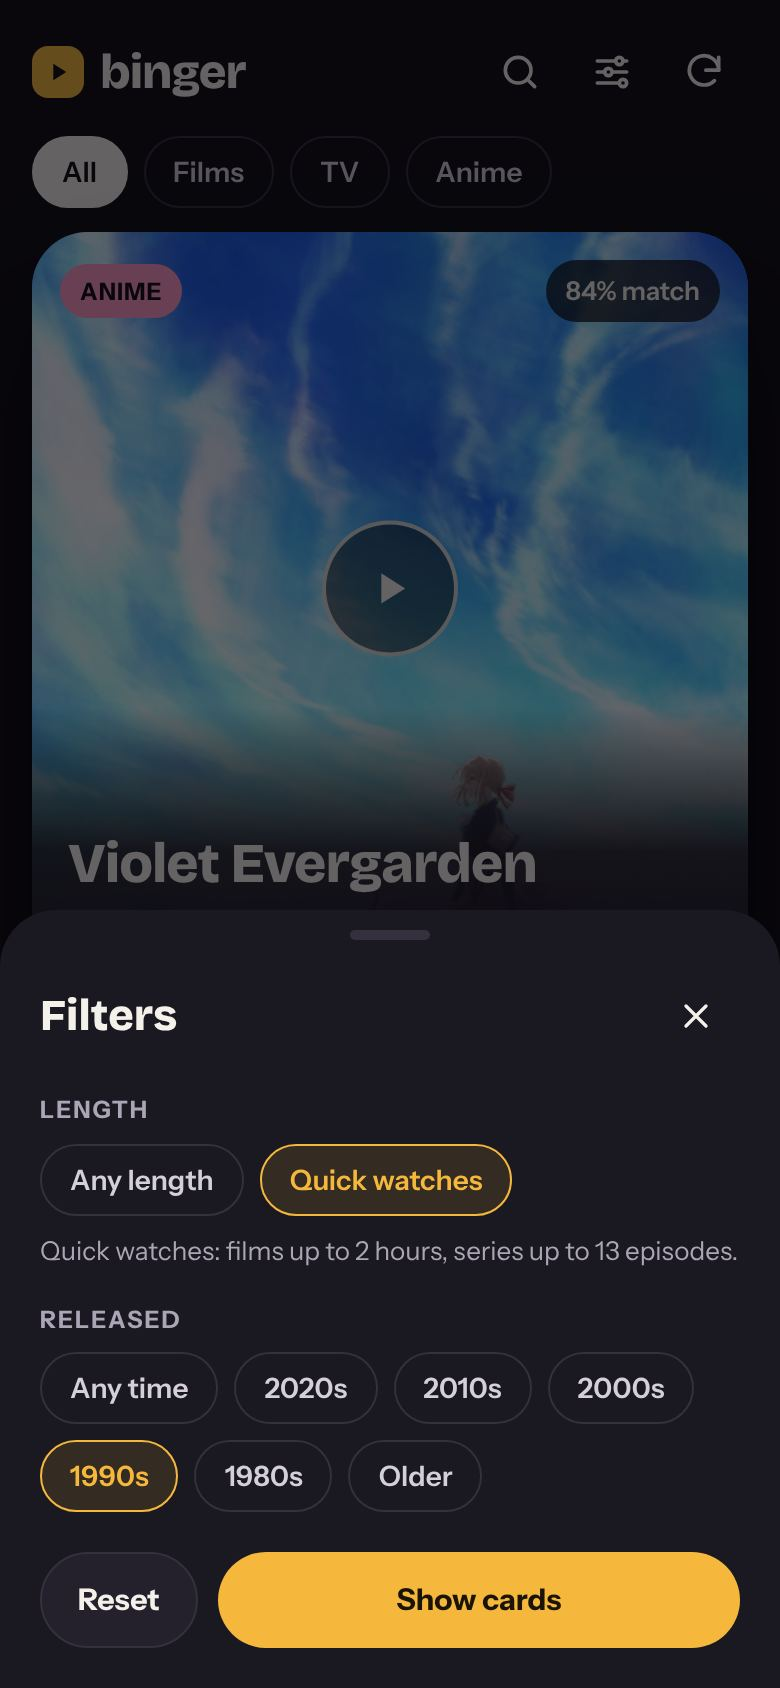
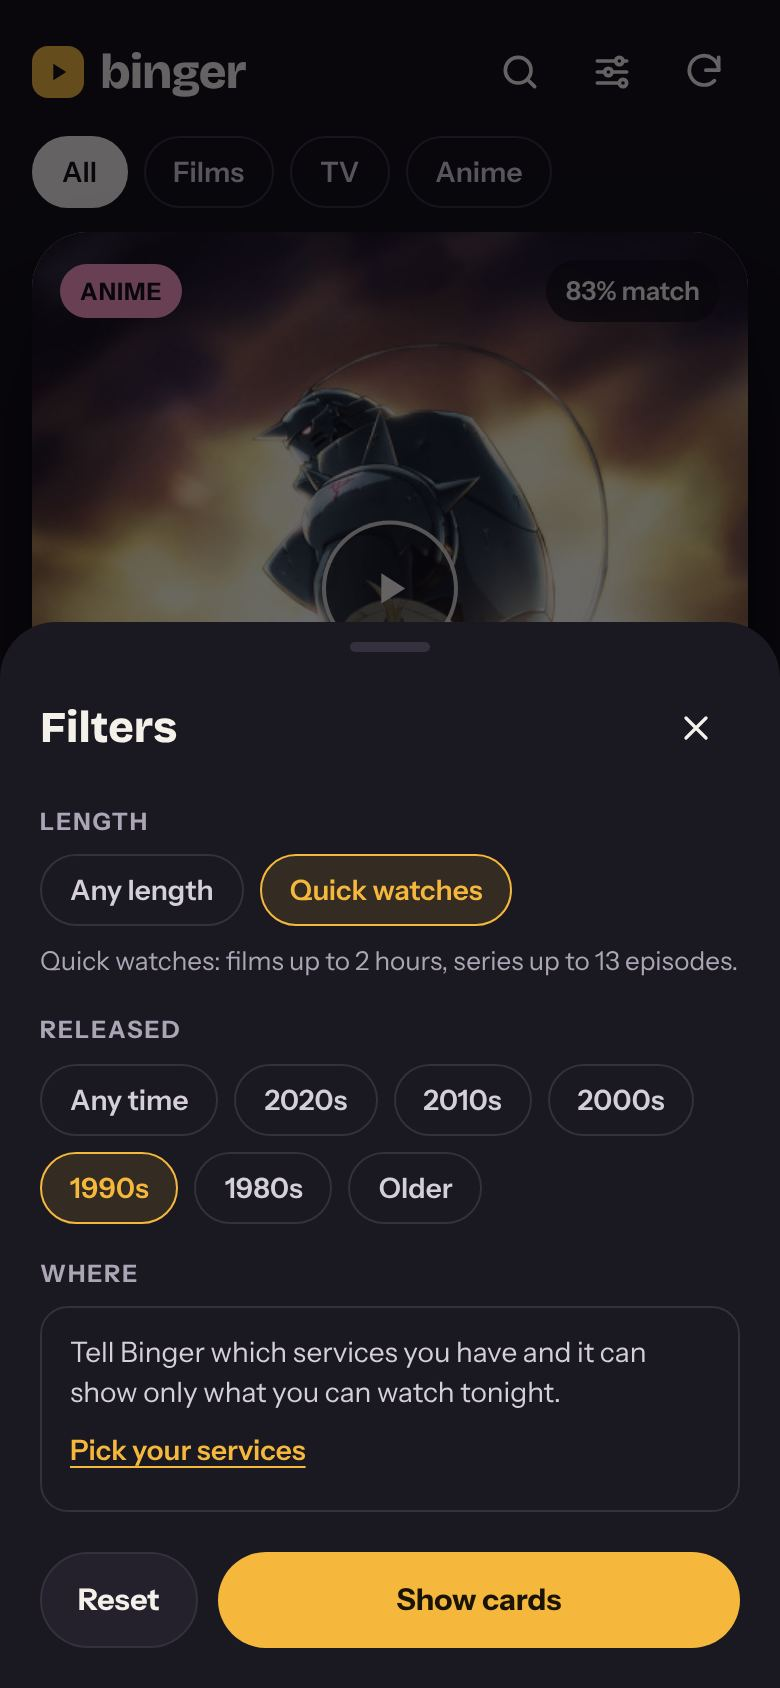
Build Phase 2 step 1: your streaming services
The picker from artboard 8 (js/ui/services.js): a tile per service in your
region (from TMDB, common ones shown at once and without a key), the
"Only show what I can stream" switch, saved on Done. Opened from Settings,
Taste and the Filters sheet. Picking none turns "only" off so the deck
can't empty. The detail sheet rings your services under "Where to watch"
and lists AniList's streaming links for anime.

Fixed while building:
- TMDB's region provider list offered services only available in other
  countries; they're now left out.
- A TMDB response with no id became a "tmdb:movie:undefined" title; it's
  now refused and the card keeps its list data.

The e2e TMDB mock now answers provider searches and details as TMDB does.
91 unit tests, 40/40 e2e. Plan, design map and docs updated.

Claude-Session: https://claude.ai/code/session_01KjzfXahiumpTDAP73xNRSR

diff --git a/js/ui/services.js b/js/ui/services.js
@@ -1,0 +1,81 @@
+// "Your services": pick the streaming services you pay for, and whether the
+// deck should show only what's on them. Design: docs/design/canvas/Services.dc.html.
+// Changes apply on Done; closing the sheet any other way leaves things as they were.
+
+import { h, append, clear, icon, safeImg } from './dom.js';
+import { openSheet, closeButton } from './sheet.js';
+import { toggle } from './taste.js';
+import { COMMON_SERVICES } from '../sources/services.js';
+
+export function onlyHint(on) {
+  return on ? 'Everything else is hidden from your deck' : 'Off: your services are lifted, nothing is hidden';
+}
+
+// Starting tiles before TMDB answers: the common services, plus anything
+// already picked (so a pick never vanishes from the grid).
+export function initialChoices(picked) {
+  const out = COMMON_SERVICES.map((service) => ({ service, logo: null }));
+  for (const service of picked) if (!out.some((x) => x.service === service)) out.push({ service, logo: null });
+  return out;
+}
+
+export function openServices(ctx) {
+  const sheet = openSheet({ label: 'Your services', variant: 'full', className: 'services' });
+  const picked = new Set(ctx.picked || []);
+  let streamOnly = !!ctx.streamOnly;
+
+  const grid = h('div', { class: 'service-grid', role: 'group', 'aria-label': 'Streaming services' });
+  function tile({ service, logo }) {
+    const mono = h('span', { class: 'service-mono', 'aria-hidden': 'true' });
+    const initial = () => mono.append(service.replace(/[^A-Za-z0-9]/g, '').slice(0, 1) || '?');
+    if (logo) mono.append(safeImg(logo, { loading: 'lazy' }, initial)); else initial();
+    const b = h('button', { type: 'button', class: 'service-tile', 'aria-pressed': String(picked.has(service)) },
+      mono,
+      h('span', { class: 'service-name' }, service),
+      h('span', { class: 'service-check', 'aria-hidden': 'true' }, icon('check', 13)));
+    b.addEventListener('click', () => {
+      if (picked.has(service)) picked.delete(service); else picked.add(service);
+      b.setAttribute('aria-pressed', String(picked.has(service)));
+    });
+    return b;
+  }
+  const paint = (choices) => { clear(grid); choices.forEach((c) => grid.append(tile(c))); };
+  paint(initialChoices([...picked]));
+  if (ctx.loadChoices) {
+    ctx.loadChoices([...picked]).then((choices) => {
+      if (sheet.el.isConnected && choices && choices.length) paint(choices);
+    }).catch(() => { /* keep the common list */ });
+  }
+
+  const only = toggle('Only show what I can stream', onlyHint(streamOnly), streamOnly, (v) => {
+    streamOnly = v;
+    only.querySelector('.small').textContent = onlyHint(v);
+  });
+
+  const done = h('button', { type: 'button', class: 'btn btn-primary grow' }, 'Done');
+  done.addEventListener('click', () => {
+    ctx.onDone({ services: [...picked], streamOnly });
+    sheet.close();
+  });
+
+  append(sheet.body, [
+    h('div', { class: 'sheet-head' }, h('h1', { class: 'page-title' }, 'Your services'), closeButton(sheet)),
+    h('div', { class: 'page-scroll services-body' },
+      h('p', { class: 'lede' }, 'Pick what you pay for. Binger lifts titles on these, and can hide everything else.'),
+      grid,
+      h('div', { class: 'panel' }, only),
+      h('p', { class: 'small muted' },
+        `Films and TV: what's included with a subscription in ${ctx.regionName || 'your region'}, from JustWatch via TMDB. `
+        + 'Rent and buy don’t count. Anime: AniList’s official streaming links, which aren’t per country.'),
+      ctx.hasKey ? null : h('p', { class: 'small muted' }, 'Add a TMDB key in Settings to see every service in your region, with logos.')),
+    h('div', { class: 'sheet-footer' }, done)]);
+  sheet.focusFirst();
+  return sheet;
+}
+
+// "Netflix, BBC iPlayer and 2 more" / "None picked yet".
+export function servicesSummary(services) {
+  if (!services || !services.length) return 'None picked yet';
+  const more = services.length > 2 ? ` and ${services.length - 2} more` : '';
+  return services.slice(0, 2).join(', ') + more;
+}

diff --git a/js/ui/detail.js b/js/ui/detail.js
@@ -5,6 +5,7 @@ import { h, icon, clear, KIND_NAME, metaLine, publicScore, avatar, starsText, sh
 import { openSheet } from './sheet.js';
 import { trailerPlayer, fullTrailerUrl } from './trailer.js';
 import { knownFrom } from './card.js';
+import { canonicalService } from '../sources/services.js';
 
 export function openDetail(initial, ctx) {
   const sheet = openSheet({ label: initial.title, variant: 'full', className: 'detail' });
@@ -99,9 +100,16 @@ function body(t, ctx) {
 }
 
 function whereToWatch(t, ctx) {
+  const mine = ctx.settings.services || [];
   if (t.source === 'anilist') {
+    const links = t.watchLinks || [];
     return h('section', { class: 'where' }, h('h2', { class: 'eyebrow' }, 'Where to watch'),
-      h('p', { class: 'small muted' }, 'AniList lists official streaming links on its page for this show.'));
+      links.length
+        ? h('ul', { class: 'providers' }, links.map((l) => h('li', null,
+          h('a', { class: `provider provider-link${mine.includes(l.name) ? ' provider-yours' : ''}`, href: l.url, target: '_blank', rel: 'noopener' },
+            h('span', null, l.name), mine.includes(l.name) ? h('span', { class: 'sr-only' }, ' (one of your services)') : null))))
+        : h('p', { class: 'small muted' }, 'No official streaming links listed on AniList yet.'),
+      links.length ? h('p', { class: 'small muted' }, 'Official links from AniList. They aren\u2019t per country, so check yours carries it.') : null);
   }
   if (!t.detailed) return null;
   const region = ctx.settings.region;
@@ -112,8 +120,12 @@ function whereToWatch(t, ctx) {
     rows.length
       ? h('div', { class: 'provider-rows' }, rows.map(([label, list]) => h('div', { class: 'provider-row' },
         h('span', { class: 'provider-label' }, label),
-        h('ul', { class: 'providers' }, list.slice(0, 6).map((x) => h('li', { class: 'provider', title: x.name },
-          x.logo ? h('img', { src: x.logo, alt: '', loading: 'lazy' }) : null, h('span', null, x.name)))))))
+        h('ul', { class: 'providers' }, list.slice(0, 6).map((x) => {
+          const yours = label !== 'Rent' && label !== 'Buy' && mine.includes(canonicalService(x.name));
+          return h('li', { class: `provider${yours ? ' provider-yours' : ''}`, title: x.name },
+            x.logo ? h('img', { src: x.logo, alt: '', loading: 'lazy' }) : null, h('span', null, x.name),
+            yours ? h('span', { class: 'sr-only' }, ' (one of your services)') : null);
+        })))))
       : h('p', { class: 'small muted' }, `Not streaming in ${region} right now, as far as TMDB knows.`),
     rows.length && p.link ? h('p', { class: 'small muted' }, 'Availability data from ', h('a', { href: p.link, target: '_blank', rel: 'noopener' }, 'JustWatch via TMDB'), '.') : null);
 }

diff --git a/js/app.js b/js/app.js
@@ -20,6 +20,9 @@ import { openSearch } from './ui/search.js';
 import { openSettings } from './ui/settings.js';
 import { openOnboarding } from './ui/onboarding.js';
 import { openFilters } from './ui/filters.js';
+import { openServices, servicesSummary } from './ui/services.js';
+import { regionName } from './ui/settings.js';
+import { serviceChoices } from './sources/lookups.js';
 import { toast, anySheetOpen } from './ui/sheet.js';
 
 // ---- state -----------------------------------------------------------------
@@ -252,8 +255,27 @@ function showFilters() {
     filters: deck.filters,
     streamOnly: s.streamOnly,
     services: s.services,
-    onPickServices: null, // the services picker is the next screen to build (docs/PLAN.md)
+    onPickServices: () => showServices(),
     onApply: applyDeckFilters,
+  });
+}
+
+// "Your services". Saved on Done; the store subscriber clears the pool and
+// refills when the services or "only what I can stream" change.
+function showServices(after = null) {
+  const s = store.get().settings;
+  openServices({
+    picked: s.services,
+    streamOnly: s.streamOnly,
+    hasKey: tmdb.hasKey,
+    regionName: regionName(s.region),
+    loadChoices: (picked) => serviceChoices({ tmdb, picked }),
+    onDone: ({ services, streamOnly }) => {
+      // "Only what I can stream" with nothing picked would empty the deck.
+      store.update(L.updateSettings, { services, streamOnly: services.length ? streamOnly : false });
+      toast(services.length ? `Your services: ${servicesSummary(services)}` : 'No services picked');
+      if (after) after();
+    },
   });
 }
 
@@ -334,6 +356,7 @@ function showSettings() {
     getState: store.get,
     keySource: () => (store.get().settings.tmdbKey ? 'Using your key.' : CONFIG.tmdbKey ? 'Using the key built into this deployment.' : 'No key yet: films and TV are off.'),
     saveKey,
+    onServices: showServices,
     updateSettings: (patch) => store.update(L.updateSettings, patch),
     exportBackup: () => {
       const blob = new Blob([L.exportState(store.get())], { type: 'application/json' });
@@ -440,6 +463,7 @@ function render() {
       getState: store.get,
       updateSettings: (patch) => store.update(L.updateSettings, patch),
       onSettings: showSettings,
+      onServices: () => showServices(),
       onForgetPasses: () => { store.update(L.forgetPasses); toast('Passed titles can come back now'); refill({ force: true }); },
     });
   }

diff --git a/js/ui/settings.js b/js/ui/settings.js
@@ -4,12 +4,18 @@
 import { h, icon } from './dom.js';
 import { openSheet, closeButton, confirmSheet, choiceSheet, toast } from './sheet.js';
 import { toggle } from './taste.js';
+import { servicesSummary } from './services.js';
 
 const REGIONS = [
   ['GB', 'United Kingdom'], ['IE', 'Ireland'], ['US', 'United States'], ['CA', 'Canada'], ['AU', 'Australia'],
   ['NZ', 'New Zealand'], ['DE', 'Germany'], ['FR', 'France'], ['ES', 'Spain'], ['IT', 'Italy'], ['NL', 'Netherlands'],
   ['SE', 'Sweden'], ['NO', 'Norway'], ['DK', 'Denmark'], ['JP', 'Japan'], ['IN', 'India'], ['BR', 'Brazil'], ['MX', 'Mexico'],
 ];
+
+export function regionName(code) {
+  const hit = REGIONS.find(([c]) => c === code);
+  return hit ? hit[1] : code;
+}
 
 export function openSettings(ctx) {
   const sheet = openSheet({ label: 'Settings', variant: 'full', className: 'settings' });
@@ -29,6 +35,12 @@ export function openSettings(ctx) {
     keyStatus.classList.toggle('error', !result.ok);
     testBtn.disabled = false;
   });
+
+  // --- your services ---
+  const servicesLine = h('span', { class: 'small muted' }, servicesSummary(s.services));
+  const servicesBtn = h('button', { type: 'button', class: 'row-btn', onClick: () => ctx.onServices(() => {
+    servicesLine.textContent = servicesSummary(ctx.getState().settings.services);
+  }) }, h('span', { class: 'switch-text' }, h('span', { class: 'switch-label' }, 'Your streaming services'), servicesLine), icon('forward', 18));
 
   // --- region & playback ---
   const region = h('select', { id: 'region' }, REGIONS.map(([code, name]) => h('option', { value: code, selected: s.region === code }, name)));
@@ -70,7 +82,8 @@ export function openSettings(ctx) {
         h('div', { class: 'row-gap' }, testBtn, h('a', { href: 'https://www.themoviedb.org/settings/api', target: '_blank', rel: 'noopener', class: 'small' }, 'Get a key', icon('external', 14))),
         keyStatus),
       group('Where you watch',
-        field('Region (for streaming info and certificates)', 'region', region)),
+        field('Region (for streaming info and certificates)', 'region', region),
+        servicesBtn),
       group('Trailers',
         toggle('Autoplay trailer in details', 'Muted; tap the video for sound', s.autoplayTrailers, (v) => ctx.updateSettings({ autoplayTrailers: v })),
         field('Clip length', 'clip', clip)),

diff --git a/css/app.css b/css/app.css
@@ -382,3 +382,25 @@ input[type="range"] { accent-color: var(--accent); }
 @media (min-width: 700px) {
   .app { border-left: 1px solid var(--surface-2); border-right: 1px solid var(--surface-2); }
 }
+
+/* streaming services (Phase 2 step 1; design: Services.dc.html) */
+.services-body { display: flex; flex-direction: column; gap: 16px; padding-top: 4px; }
+.service-grid { display: grid; grid-template-columns: repeat(3, minmax(0, 1fr)); gap: 10px; }
+.service-tile {
+  position: relative; min-height: 96px; padding: 12px 6px 10px; border-radius: 16px;
+  display: flex; flex-direction: column; align-items: center; justify-content: center; gap: 8px;
+  background: var(--surface); border: 1px solid var(--line); color: var(--text);
+}
+.service-tile[aria-pressed="true"] { background: rgba(245, 184, 61, 0.10); border-color: var(--accent); }
+.service-mono {
+  width: 36px; height: 36px; border-radius: 10px; overflow: hidden; display: flex; align-items: center; justify-content: center;
+  font-family: var(--font-display); font-weight: 800; font-size: 17px; background: var(--line); color: var(--text);
+}
+.service-mono img { width: 100%; height: 100%; object-fit: cover; }
+.service-name { font-size: 13px; font-weight: 600; line-height: 1.2; text-align: center; }
+.service-check { position: absolute; top: 6px; right: 6px; width: 22px; height: 22px; border-radius: 11px; background: var(--accent); color: var(--on-accent); display: none; align-items: center; justify-content: center; }
+.service-tile[aria-pressed="true"] .service-check { display: flex; }
+.row-btn { width: 100%; min-height: 52px; display: flex; align-items: center; justify-content: space-between; gap: 12px; border: 0; background: transparent; color: var(--text); padding: 4px 0; text-align: left; }
+.row-btn > svg { flex: none; color: var(--muted); }
+.provider-yours { border-color: var(--accent); box-shadow: 0 0 0 1px var(--accent); }
+.provider-link { color: var(--text); text-decoration: none; padding: 8px 12px; }

diff --git a/js/ui/taste.js b/js/ui/taste.js
@@ -4,6 +4,7 @@
 
 import { h, icon, clear, KIND_NAME, titleCase } from './dom.js';
 import { topFeatures } from '../engine/index.js';
+import { servicesSummary } from './services.js';
 
 const ALL_GENRES = [
   'Action', 'Adventure', 'Comedy', 'Crime', 'Documentary', 'Drama', 'Family', 'Fantasy', 'History', 'Horror',
@@ -72,6 +73,13 @@ export function renderTaste(root, ctx) {
     h('h2', { class: 'eyebrow' }, 'Steer the deck'),
     sliders,
     !ctx.hasKey ? h('p', { class: 'small muted' }, 'Films and TV need a TMDB key (Settings). Until then the deck is all anime.') : null,
+    h('button', { type: 'button', class: 'row-btn', onClick: ctx.onServices },
+      h('span', { class: 'switch-text' },
+        h('span', { class: 'switch-label' }, 'Your streaming services'),
+        h('span', { class: 'small muted' }, s.services && s.services.length
+          ? `${servicesSummary(s.services)}${s.streamOnly ? ' · only these' : ''}`
+          : 'Pick yours to lift what you can watch tonight')),
+      icon('forward', 18)),
     toggle('Favour new releases', 'Lift films, shows and seasons from the last few months', s.preferFresh, (v) => ctx.updateSettings({ preferFresh: v })),
     toggle('Surprise me sometimes', 'About 1 card in 7 is a well-rated title outside your usual taste', s.surprise, (v) => ctx.updateSettings({ surprise: v }))));
 

diff --git a/js/sources/tmdb.js b/js/sources/tmdb.js
@@ -30,7 +30,7 @@ export function isAnimeLike(r) {
 }
 
 export function fromTmdbList(r, mediaType = r.media_type) {
-  if (!r || (mediaType !== 'movie' && mediaType !== 'tv') || r.adult) return null;
+  if (!r || r.id == null || (mediaType !== 'movie' && mediaType !== 'tv') || r.adult) return null;
   const date = (mediaType === 'movie' ? r.release_date : r.first_air_date) || null;
   return {
     id: `tmdb:${mediaType}:${r.id}`,
@@ -146,7 +146,9 @@ export function collectionName(name) {
 // several times: "Netflix", "Netflix Standard with Ads"...), most common first.
 export function fromTmdbProviders(json, region = 'GB') {
   const rank = (p) => (p.display_priorities && p.display_priorities[region]) ?? p.display_priority ?? 999;
-  const list = ((json && json.results) || []).filter((p) => p && p.provider_id && p.provider_name).sort((a, b) => rank(a) - rank(b));
+  // A service that lists the countries it's in, without yours, isn't offered.
+  const here = (p) => !p.display_priorities || p.display_priorities[region] != null;
+  const list = ((json && json.results) || []).filter((p) => p && p.provider_id && p.provider_name && here(p)).sort((a, b) => rank(a) - rank(b));
   const out = [];
   for (const p of list) {
     const service = canonicalService(p.provider_name);

diff --git a/tests/sources.test.js b/tests/sources.test.js
@@ -225,3 +225,12 @@ test('pickSeeds and sequelIdsToFetch read the library', () => {
   assert.deepEqual(seeds.tmdb, []);
   assert.deepEqual(sequelIdsToFetch(items), frieren.sequelIds);
 });
+
+test('a TMDB response with no id is refused, not turned into a broken title', async () => {
+  assert.equal(fromTmdbList({ results: [] }, 'movie'), null);
+  assert.equal(fromTmdbDetail({ results: [] }, 'movie', 'GB'), null);
+  const fetchImpl = fakeFetch([['/movie/6', { results: [] }]]);
+  const light = { ...fromTmdbList(fx('tmdb-trending-movie.json').results[3], 'movie'), via: [] };
+  const [same] = await hydrate([light], { tmdb: createTmdb({ key: 'k', fetchImpl }) });
+  assert.equal(same, light, 'hydrate keeps the original when details are unusable');
+});

diff --git a/tests/lookups.test.js b/tests/lookups.test.js
@@ -48,6 +48,8 @@ test('TMDB region providers: one entry per service, most common first', () => {
   assert.deepEqual(list.slice(0, 3).map((p) => p.service), ['BBC iPlayer', 'Netflix', 'Amazon Prime Video']);
   assert.deepEqual(list.find((p) => p.service === 'Netflix').ids, [8, 1796]);
   assert.equal(list.find((p) => p.service === 'Crunchyroll').ids[0], 1968);
+  assert.ok(!list.some((p) => p.service === 'Example US Only'), 'services not in your region are left out');
+  assert.ok(fromTmdbProviders(fx('tmdb-providers-movie.json'), 'US').some((p) => p.service === 'Example US Only'));
 });
 
 // --- TMDB details, people, collections ---------------------------------

diff --git a/js/ui/dom.js b/js/ui/dom.js
@@ -51,6 +51,7 @@ const PATHS = {
   check: '<path d="M5 12l5 5 9-10"/>',
   plus: '<path d="M12 5v14M5 12h14"/>',
   back: '<path d="M15 5l-7 7 7 7"/>',
+  forward: '<path d="M9 5l7 7-7 7"/>',
   external: '<path d="M14 4h6v6M20 4l-9 9"/><path d="M18 14v5a1 1 0 0 1-1 1H5a1 1 0 0 1-1-1V7a1 1 0 0 1 1-1h5"/>',
   trash: '<path d="M4 7h16M9 7V4h6v3M6 7l1 13h10l1-13"/>',
   refresh: '<path d="M20 11a8 8 0 1 0-2.3 5.7"/><path d="M20 4v7h-7"/>',

diff --git a/js/version.js b/js/version.js
@@ -1,4 +1,4 @@
 // The one place the app version lives. Shown in Settings → About.
 // Bump with `npm run bump` (sets both from the real UTC clock).
-self.BINGER_VERSION = '2026.10.18-3';
-self.BINGER_BUILD_TIME = '2026-10-18T09:58:17Z';
+self.BINGER_VERSION = '2026.10.18-4';
+self.BINGER_BUILD_TIME = '2026-10-18T14:27:42Z';

diff --git a/service-worker.js b/service-worker.js
@@ -57,6 +57,7 @@ const SHELL = [
   'js/ui/settings.js',
   'js/ui/onboarding.js',
   'js/ui/filters.js',
+  'js/ui/services.js',
 ];
 
 const IMAGE_HOSTS = ['image.tmdb.org', 's4.anilist.co'];
